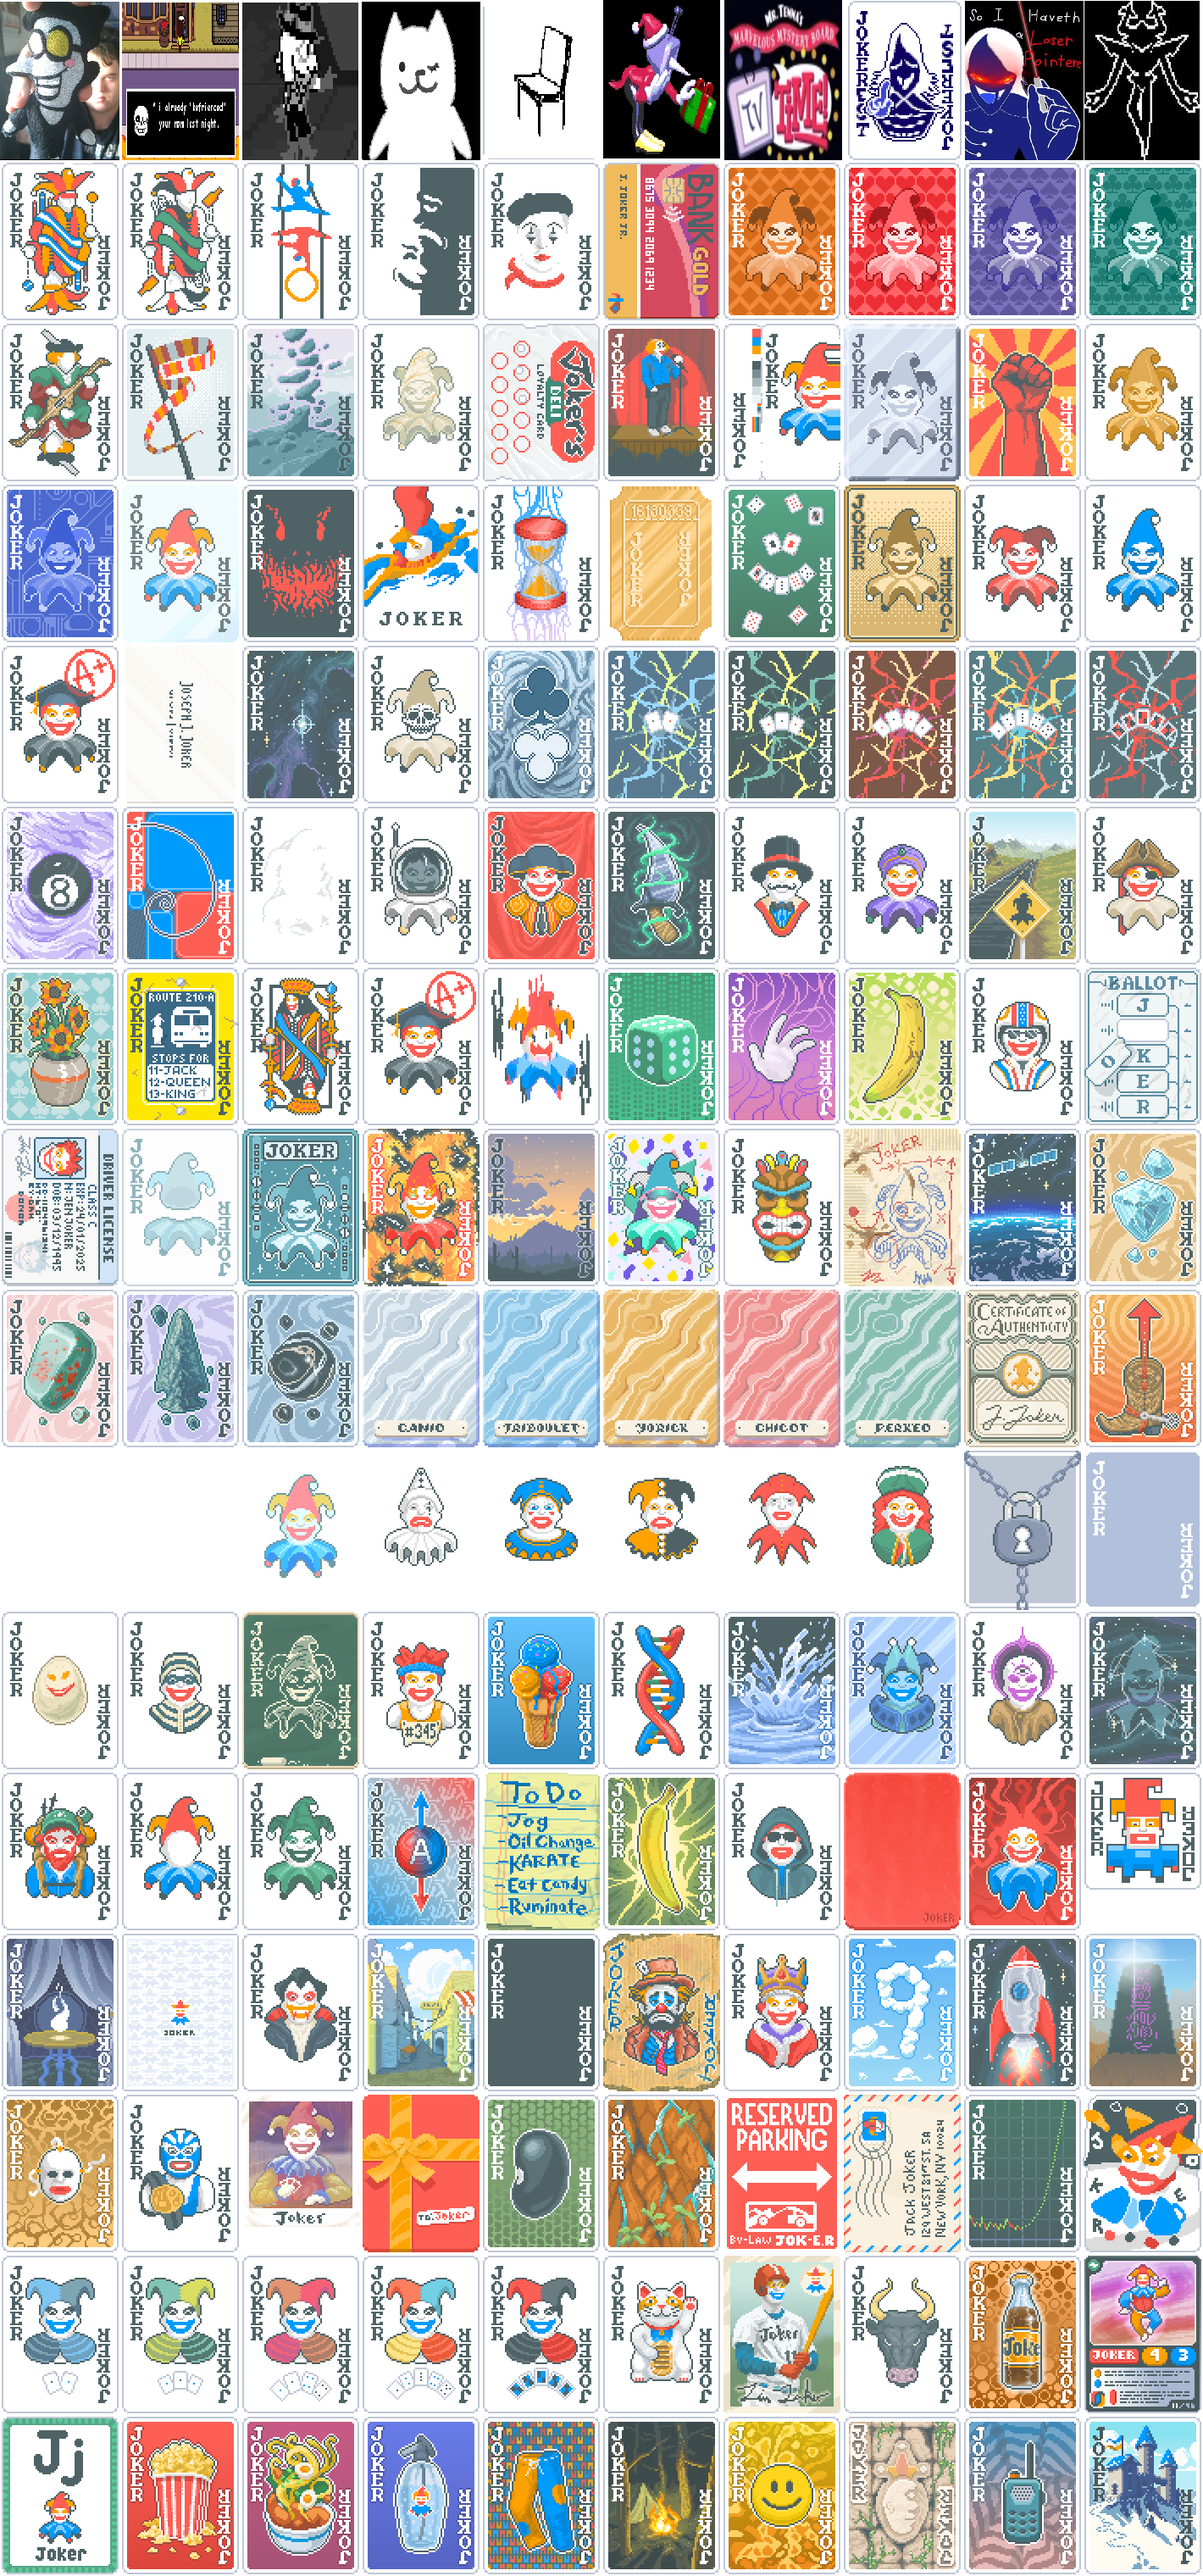
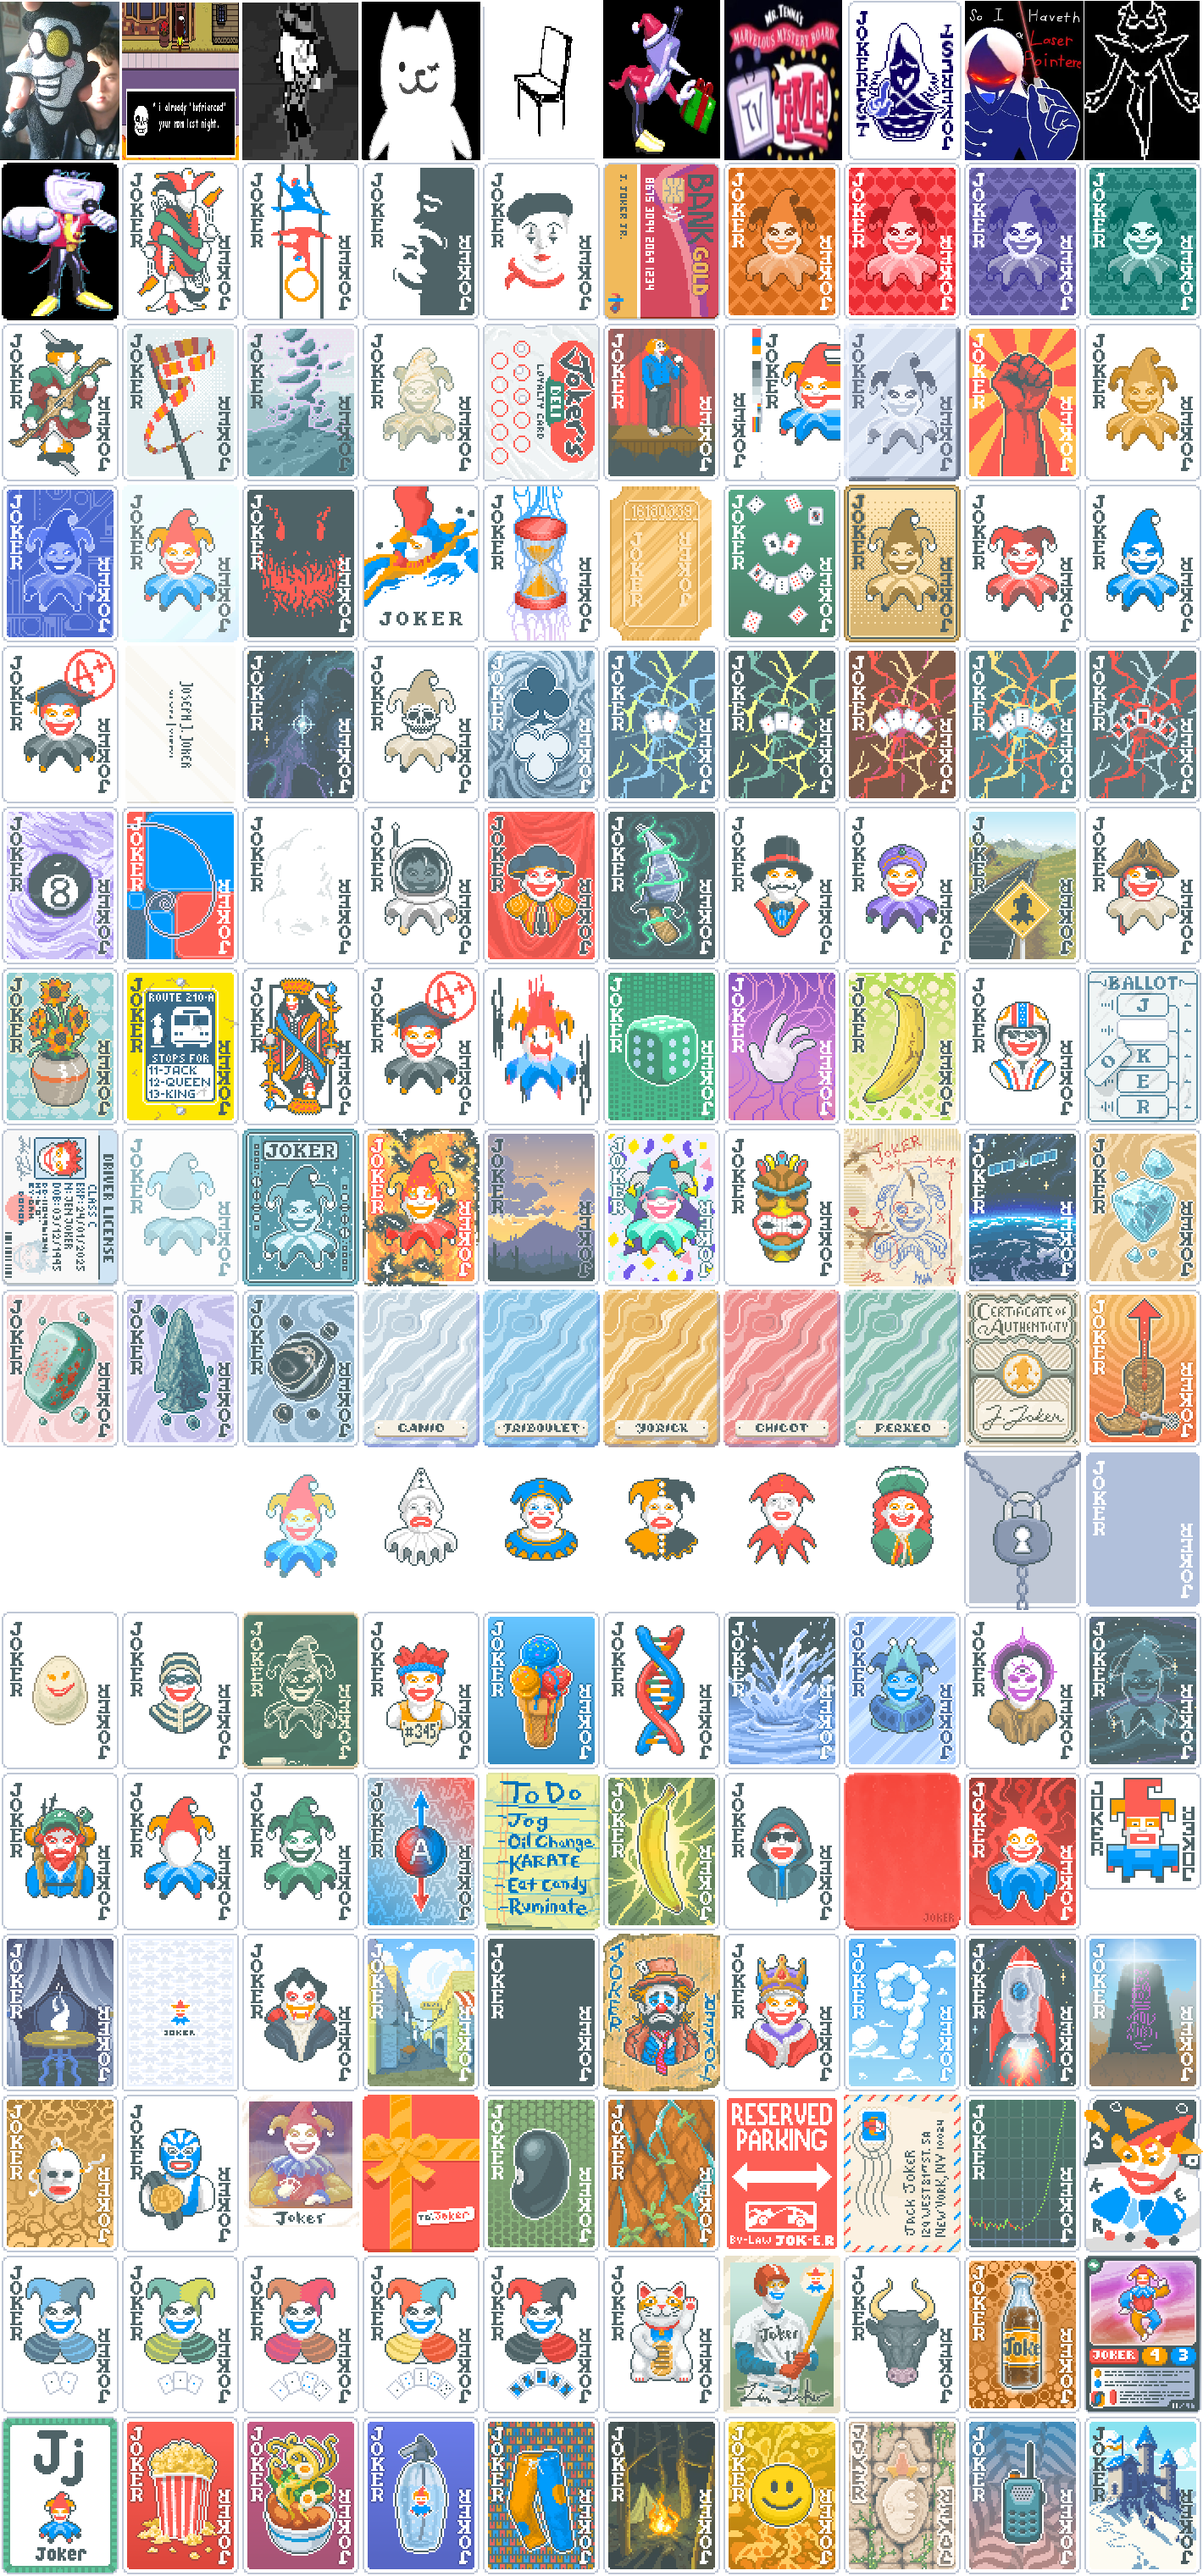
added tv time blind and tenna

Changed region(s): [[0.0, 0.0625, 0.1239, 0.125]]

diff --git a/README.md b/README.md
@@ -10,8 +10,6 @@ the roaring knight:x0.5 mult per card it kills
 
 ralsai: who gives random xmult --bad idea may chanage in later release 
 
-Rouxls Kaard:  "Scoring Stone cards make the Blind requirement 15% smaller When instantly make the Blind requirement 50% smaller
-
 ITEMS
 
 Toby fox:choose a joker a consumable and next blind
@@ -21,5 +19,7 @@ Tennas gift: make one random joker
 chair skip next boss blind (Must NOT be during blind selection)
 
 Tenna's Marvelous Mystery Board: Disable the current blind
+
+Rouxls Kaard: thoust blind shalt be 50% easier
 
 So I haveth a Laser Pointere: selleth any item (including from shop)
